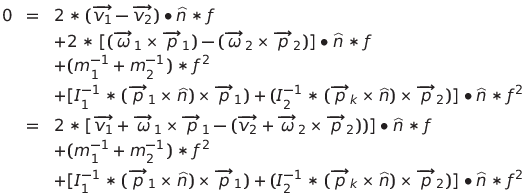
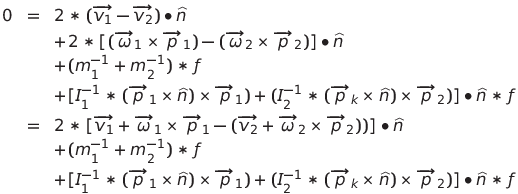
This should complete the essential angular physics handling info.
Finally figured it out!

diff --git a/doc/physics.latex.md b/doc/physics.latex.md
@@ -222,37 +222,25 @@ m_1 * s_1^2 + m_2 * s_2^2 + \overrightarrow{\omega}_1^T * I_1 * \overrightarrow{
 
 ## angular_energy_eqn7
 ```latex
-0 &=& 2 * (\overrightarrow{v_1} - \overrightarrow{v_2}) \bullet \widehat{n} * f \\
-&& + 2 * [ (\overrightarrow{\omega}_1 \times \overrightarrow{p}_1) - (\overrightarrow{\omega}_2 \times \overrightarrow{p}_2) ] \bullet \widehat{n} * f \\
-&& + (m_1^{-1} + m_2^{-1}) * f^2 \\
-&& + [I_1^{-1} * (\overrightarrow{p}_1 \times \widehat{n}) \times \overrightarrow{p}_1) + (I_2^{-1} * (\overrightarrow{p}_k \times \widehat{n}) \times \overrightarrow{p}_2) ] \bullet \widehat{n} * f^2 \\
+0 &=& 2 * (\overrightarrow{v_1} - \overrightarrow{v_2}) \bullet \widehat{n} \\
+&& + 2 * [ (\overrightarrow{\omega}_1 \times \overrightarrow{p}_1) - (\overrightarrow{\omega}_2 \times \overrightarrow{p}_2) ] \bullet \widehat{n} \\
+&& + (m_1^{-1} + m_2^{-1}) * f \\
+&& + [I_1^{-1} * (\overrightarrow{p}_1 \times \widehat{n}) \times \overrightarrow{p}_1) + (I_2^{-1} * (\overrightarrow{p}_k \times \widehat{n}) \times \overrightarrow{p}_2) ] \bullet \widehat{n} * f \\
 \vspace{10}
-&=& 2 * [\overrightarrow{v_1} + \overrightarrow{\omega}_1 \times \overrightarrow{p}_1 - (\overrightarrow{v_2} + \overrightarrow{\omega}_2 \times \overrightarrow{p}_2)) ] \bullet \widehat{n} * f \\
-&& + (m_1^{-1} + m_2^{-1}) * f^2 \\
-&& + [I_1^{-1} * (\overrightarrow{p}_1 \times \widehat{n}) \times \overrightarrow{p}_1) + (I_2^{-1} * (\overrightarrow{p}_k \times \widehat{n}) \times \overrightarrow{p}_2) ] \bullet \widehat{n} * f^2
-```
-
-```latex
-0 &=& [2 * (\overrightarrow{v_1} - \overrightarrow{v_2}) \bullet \widehat{n} + m_1^{-1} * f + m_2^{-1} * f] \\
-&& + 2 * [ (\overrightarrow{p}_1 \times \widehat{n}) \bullet \overrightarrow{\omega}_1 - (\overrightarrow{p}_2 \times \widehat{n}) \bullet \overrightarrow{\omega}_2] \\
-&& + (\overrightarrow{p}_1 \times \widehat{n})^T * I_1^{-1} * \overrightarrow{p}_1 \times \widehat{n} * f + (\overrightarrow{p}_2 \times \widehat{n})^T * I_2^{-1} * \overrightarrow{p}_2 \times \widehat{n} * f
-```
-
-## angular_energy_eqn7
-```latex
-0 &=& [2 * (\overrightarrow{v_1} - \overrightarrow{v_2}) \bullet \widehat{n} + m_1^{-1} * f + m_2^{-1} * f] \\
-&& + 2 * [ \widehat{n} \bullet (\overrightarrow{\omega}_1 \times \overrightarrow{p}_1) - \widehat{n} \bullet (\overrightarrow{\omega}_2 \times \overrightarrow{p}_2)] \\
-&& + (\overrightarrow{p}_1 \times \widehat{n})^T * I_1^{-1} * \overrightarrow{p}_1 \times \widehat{n} * f + (\overrightarrow{p}_2 \times \widehat{n})^T * I_2^{-1} * \overrightarrow{p}_2 \times \widehat{n} * f \\
-\vspace{10}
-&=& [2 * (\overrightarrow{v_1} - \overrightarrow{v_2}) \bullet \widehat{n} + m_1^{-1} * f + m_2^{-1} * f] \\
-&& + 2 * [(\overrightarrow{\omega}_1 \times \overrightarrow{p}_1 - \overrightarrow{\omega}_2 \times \overrightarrow{p}_2) \bullet \widehat{n} \\
-&& + (\overrightarrow{p}_1 \times \widehat{n})^T * I_1^{-1} * \overrightarrow{p}_1 \times \widehat{n} * f + (\overrightarrow{p}_2 \times \widehat{n})^T * I_2^{-1} * \overrightarrow{p}_2 \times \widehat{n} * f
+&=& 2 * [\overrightarrow{v_1} + \overrightarrow{\omega}_1 \times \overrightarrow{p}_1 - (\overrightarrow{v_2} + \overrightarrow{\omega}_2 \times \overrightarrow{p}_2)) ] \bullet \widehat{n} \\
+&& + (m_1^{-1} + m_2^{-1}) * f \\
+&& + [I_1^{-1} * (\overrightarrow{p}_1 \times \widehat{n}) \times \overrightarrow{p}_1) + (I_2^{-1} * (\overrightarrow{p}_k \times \widehat{n}) \times \overrightarrow{p}_2) ] \bullet \widehat{n} * f
 ```
 
 ## angular_energy_eqn8
 ```latex
-0 &=& 2 * [ (\overrightarrow{v_1} + \overrightarrow{\omega}_1 \times \overrightarrow{p}_1 - (\overrightarrow{v_2} + \overrightarrow{\omega}_2 \times \overrightarrow{p}_2) ] \bullet \widehat{n} \\
-&& + [ m_1^{-1} + m_2^{-1} + (\overrightarrow{p}_1 \times \widehat{n})^T * I_1^{-1} * \overrightarrow{p}_1 \times \widehat{n} + (\overrightarrow{p}_2 \times \widehat{n})^T * I_2^{-1} * \overrightarrow{p}_2 \times \widehat{n} ] * f
+-2 * [\overrightarrow{v_1} + \overrightarrow{\omega}_1 \times \overrightarrow{p}_1 - (\overrightarrow{v_2} + \overrightarrow{\omega}_2 \times \overrightarrow{p}_2)) ] \bullet \widehat{n} &=& (m_1^{-1} + m_2^{-1}) * f \\
+&& + [(I_1^{-1} * (\overrightarrow{p}_1 \times \widehat{n}) \times \overrightarrow{p}_1) + (I_2^{-1} * (\overrightarrow{p}_k \times \widehat{n}) \times \overrightarrow{p}_2) ] \bullet \widehat{n} * f
+```
+
+## angular_energy_eqn9
+```latex
+f = \frac{ -2 * [\overrightarrow{v_1} + \overrightarrow{\omega}_1 \times \overrightarrow{p}_1 - (\overrightarrow{v_2} + \overrightarrow{\omega}_2 \times \overrightarrow{p}_2)) ] \bullet \widehat{n} }{ m_1^{-1} + m_2^{-1} + [(I_1^{-1} * (\overrightarrow{p}_1 \times \widehat{n}) \times \overrightarrow{p}_1) + (I_2^{-1} * (\overrightarrow{p}_k \times \widehat{n}) \times \overrightarrow{p}_2) ] \bullet \widehat{n} } \\
 ```
 
 ## angular_final_solution

diff --git a/doc/physics.md b/doc/physics.md
@@ -287,13 +287,20 @@ Now the above equation is a bit hefty, even with single-letter variables, so it'
 Then the angular kinetic energy can receive a similar treatment:
 
 ![angular energy eqn3](./img/angular_energy_eqn3.png)
+
 ![angular energy eqn4](./img/angular_energy_eqn4.png)
+
 ![angular energy eqn5](./img/angular_energy_eqn5.png)
 
 At this point everything on the left of the equation has been canceled, so the full equation looks like the below. Similar to the linear section, since there's an `f` in every term, (and `f` cannot be zero) one `f` can be removed.
 
 ![angular energy eqn6](./img/angular_energy_eqn6.png)
+
 ![angular energy eqn7](./img/angular_energy_eqn7.png)
+
+![angular energy eqn8](./img/angular_energy_eqn8.png)
+
+![angular energy eqn9](./img/angular_energy_eqn9.png)
 
 
 **TODO:** Figure out the above!
